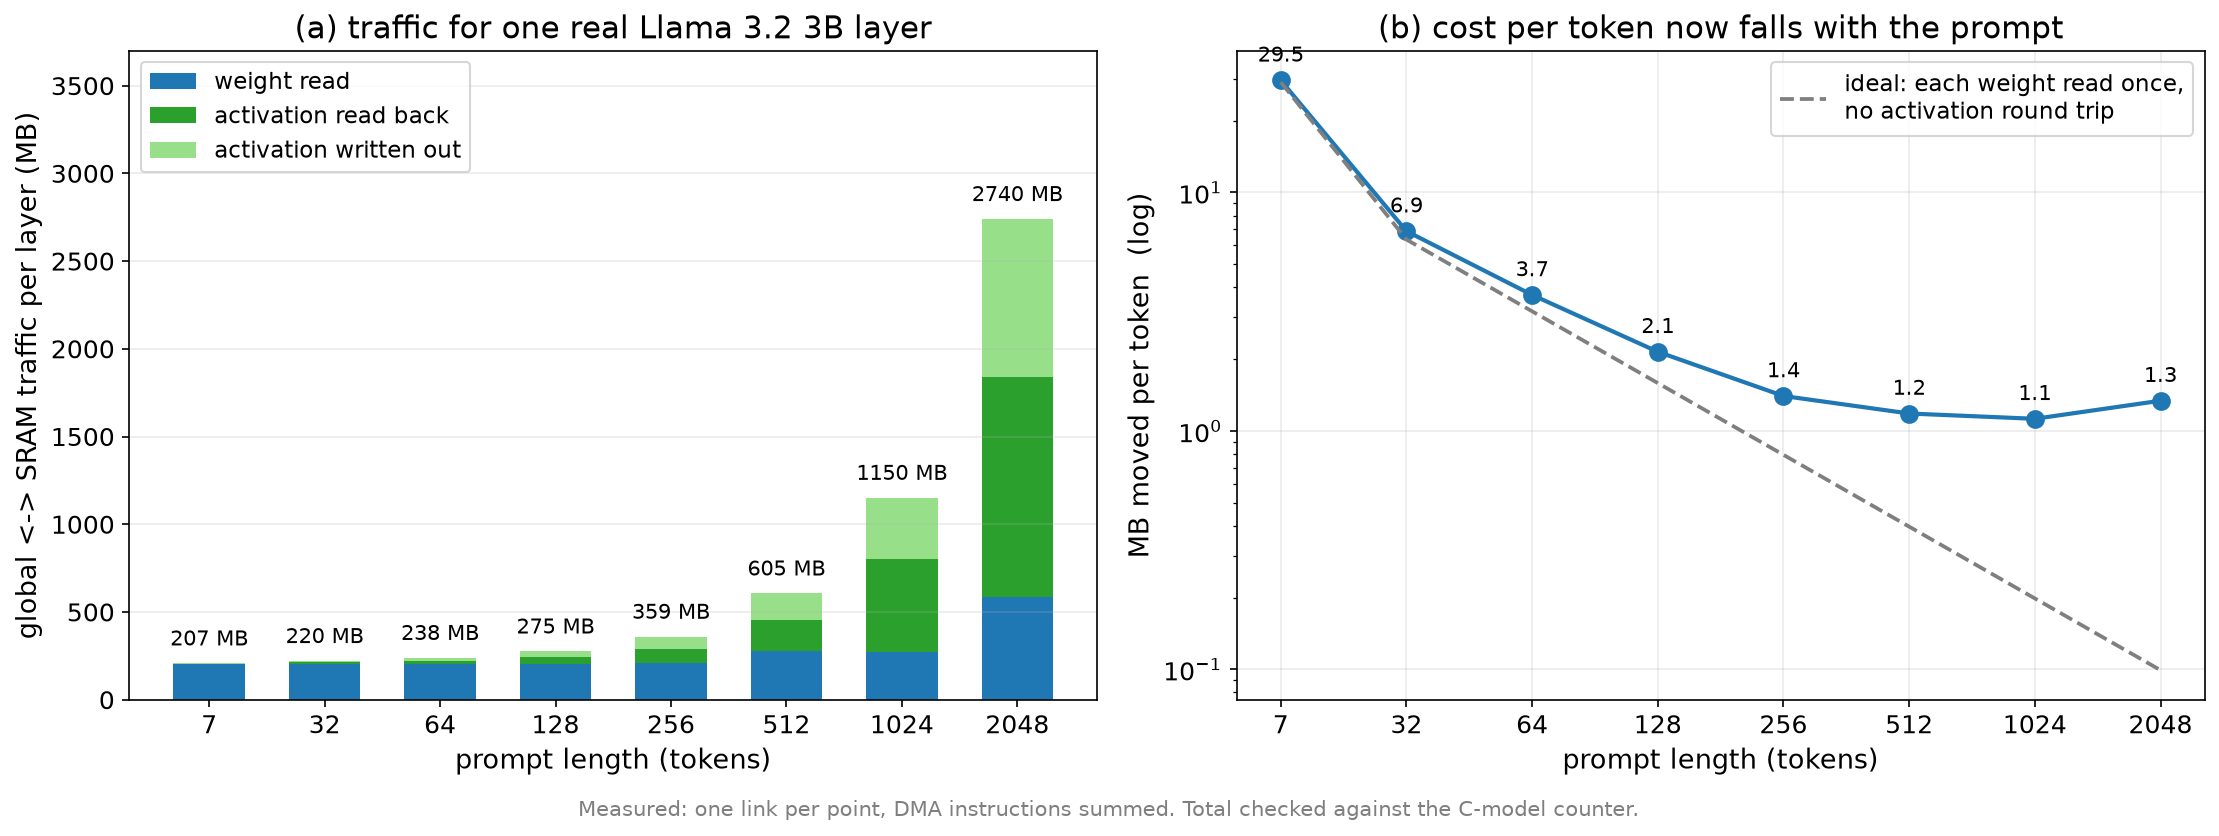
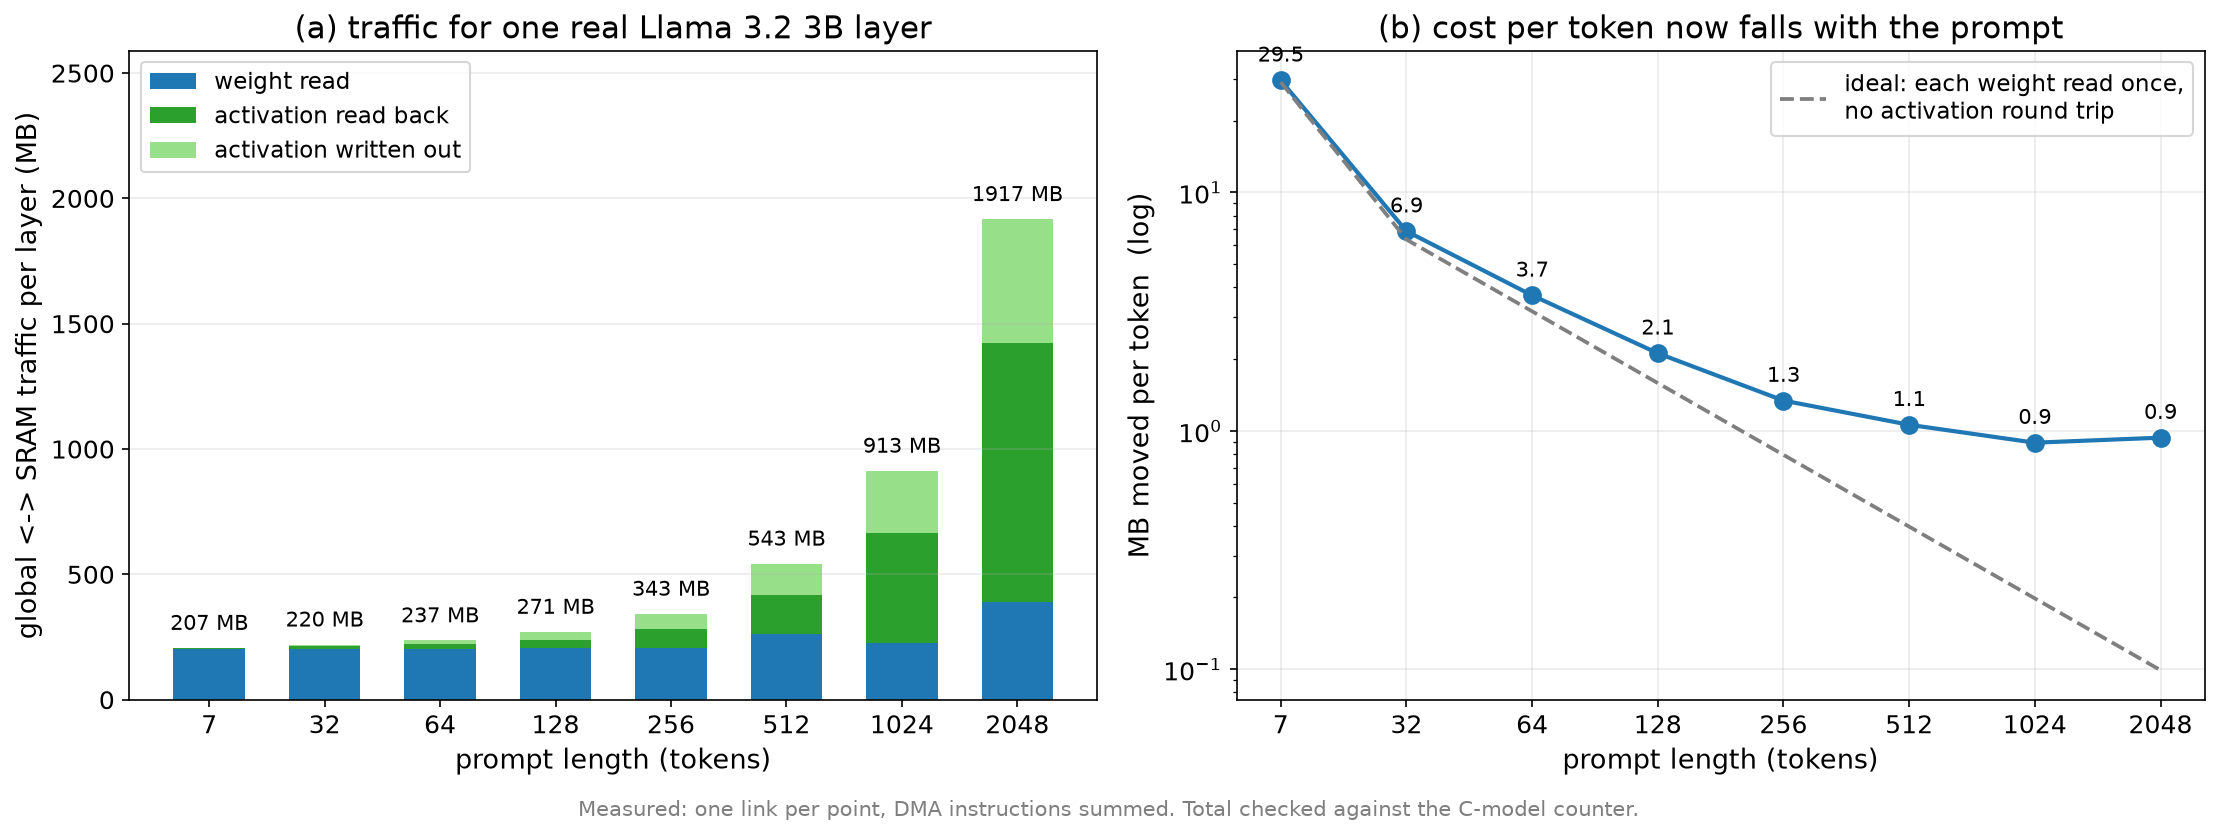
report: bring both documents up to date with today's work
Four things landed today (decode golden, mask, attention blocking, the
residency measurement) and the reports were describing the state before
two of them.  This makes every number in both documents current, and
re-measures the ones that could have gone stale rather than editing them
by hand.

report_0901.md
  Section 0 and 14 carry the four full-depth gates re-run after the mask
  change: 15,285,445 / 21,540,004 / 13,664,874 / 16,021,170 words, tokens
  358 / 358 / 108 / 358, cosines 0.9999927 / 0.9999922 / 0.9997845 /
  0.9999927.  The cosines are unchanged to the last digit and the words
  fell by 8-16 per layer, which is what a mask read from one head's copy
  instead of twenty-four should do.  14 also records that these gates are
  the regression baseline for the attention work and are untouched by it,
  verified by stashing rather than assumed.

  15.4e said the remaining item was the scores tensor and that removing it
  needed an online softmax.  It is removed, and the claim about online
  softmax was wrong; the section now says why (both axes vs one, 200 KB vs
  8 MiB).  17 gets the attention item closed and the inter-op one marked
  deferred with its measured number.

report_0908.md
  New 4.5 answers a question this design had not addressed in writing: is
  this heuristic or search?  Three layers, and only one of them is
  heuristic.  Choosing the resident operand is exact -- one accumulator
  collapses the space to three closed-form candidates, so comparing them
[…]

diff --git a/report/figs/0901/plot_traffic.py b/report/figs/0901/plot_traffic.py
@@ -3,16 +3,20 @@
 Reads report/figs/0901/traffic.json, written by d_compiler/analyze_traffic.py
 (one link per point; traffic is summed from the DMA instructions in the linked
 program, and the total was checked against the C-model's own counter -- both
-say 1,619,976,421 cells for the 28-layer program).
+say 1,619,927,729 cells for the 28-layer program).
 
 The point of these two figures is that every gate we run is seq=7, and at that
 one point the compiler looks optimal: weights are read exactly once and
-activation round trips are 1% of traffic.  Neither stays true as the prompt
-grows.  Two pieces of work have landed since the first version of these
-figures: striping the elementwise and normalisation kernels, which caps SRAM
-at ~6.1 MiB (it used to grow past 8 and stop linking at 256), and choosing
-which matmul operand stays resident, which is what pulled weight re-reads back
-towards one.
+activation round trips are 1% of traffic.  Neither stayed true as the prompt
+grew.  Four pieces of work have landed since the first version of these
+figures: striping the elementwise and normalisation kernels (SRAM used to grow
+past 8 MiB and stop linking at seq 256), choosing which matmul operand stays
+resident (weight re-reads back towards one), fusing the attention score chain,
+and blocking the whole attention over query rows so the score matrix never
+reaches global memory at all.  Cost per token is now under 1 MB.
+
+"weight" here means every function parameter, the mask included, which is why
+the blue bar drops at 2048 when the mask stopped being materialized per head.
 
 Colours: categorical blue/green for the two traffic kinds that behave
 differently, red reserved for the capacity violation, grey for recessive

diff --git a/report/report_0901.md b/report/report_0901.md
@@ -60,15 +60,16 @@ host가 실제로 실행하는 `transform_params`, 그리고 같은 IR을 CPU로
 
 | 모델 | 결과 | 규모 |
 |---|---|---|
-| Llama 3.2 3B (28층) | **HF golden token 358 일치 + HF logits cosine 0.9999927** (기존 golden 0.9999881 상회) | A1 적용 **15.3M word** (전 31.2M, −51.0%) · 6.1 GiB image |
-| Qwen3-4B (36층) | **HF golden token 358 일치 + HF logits cosine 0.9999922** | A1 적용 **21.5M word** (전 42.9M, −49.8%) · 7.7 GiB image |
-| Gemma 4 E2B (35층) | **HF golden token 108 일치 + HF logits cosine 0.9997845** | 13.7M word · 4.3 GiB image · 실행 247s |
-| HF 추적 Llama (28층) | **HF golden token 358 일치 + cosine 0.9999927** — HF 모델 자체가 입력 (§2.5) | 16.0M word |
+| Llama 3.2 3B (28층) | **HF golden token 358 일치 + HF logits cosine 0.9999927** (기존 golden 0.9999881 상회) | **15,285,445 word** · 6.1 GiB image |
+| Qwen3-4B (36층) | **HF golden token 358 일치 + HF logits cosine 0.9999922** | **21,540,004 word** · 7.7 GiB image |
+| Gemma 4 E2B (35층) | **HF golden token 108 일치 + HF logits cosine 0.9997845** | **13,664,874 word** · 4.3 GiB image |
+| HF 추적 Llama (28층) | **HF golden token 358 일치 + cosine 0.9999927** — HF 모델 자체가 입력 (§2.5) | **16,021,170 word** |
 | W8A16 양자화 | 타일 규모에서 **numpy mirror와 bit-exact**, tiny 모델 cosine 0.999998. 실차원 양자화 matmul cosine 0.999964 (§16.3) | — |
 | W8A8 (activation 양자화) | **HF golden token 358 일치 + cosine 0.9974269** (28층, §15.4f) | 9.97M word |
 | decode (생성) | **28층 golden `[358, 2846, 4560]` 일치 (2026-09-08)**. tiny에서 NPU == llvm == float32 전체 재계산 (§18.3) | 모델당 프로그램 2개 |
 | 컴파일 시간 | 28층 링크 **8,147s → 127.0s (64.1배)**, word 스트림 불변 (§7.1, §11.1) | codegen이 C++ (§7.1) |
 | 긴 프롬프트 | **seq 2048까지 링크·실행** (1층 cosine 0.999994), **28층 × seq 512 cosine 0.999882** (§15.4b~f) | 이전엔 seq 256에서 컴파일 실패 |
+| 어텐션 | **점수 행렬이 SRAM을 벗어나지 않는다** — 어텐션 전체를 한 커널로 융합해 질의 행블록으로 블로킹 (`report_0908.md` §5.5) | seq 2048에서 어텐션 1,057 → **234.9 MB**, 전체 −30.0% |
 
 ---
 
@@ -599,6 +600,25 @@ Llama 실행의 카운터는 `dma_cells_loaded` 1,619,976,421 · `matrix_ops` 78
 `gload` 786,312 · `gstore` 23,341이다. 이 중 `dma_cells_loaded`는 §15.4의
 정적 트래픽 분석이 센 값과 **정확히 일치**하며, 그 분석의 검증 기준이다.
 
+**마스크를 헤드마다 복사하지 않게 한 뒤 재실행 (2026-09-08)** —
+`report_0908.md` §5.5 참조. 마스크가 `[H,S,S]`에서 `[1,S,S]`가 되어 커널이
+같은 값을 더 적은 전송으로 읽는다:
+
+| 모델 | word 수 | Δ | 층당 | token | cosine |
+|---|---|---|---|---|---|
+| Llama 28층 | 15,285,445 | −448 | −16 | **358 ✓** | **0.9999927** |
+| Qwen3 36층 | 21,540,004 | −576 | −16 | **358 ✓** | **0.9999922** |
+| Gemma 35층 | 13,664,874 | −280 | −8 | **108 ✓** | **0.9997845** |
+| HF 추적 Llama | 16,021,170 | −448 | −16 | **358 ✓** | **0.9999927** |
+
+**cosine 네 개가 자릿수까지 그대로다.** 값이 같고 전송만 줄었으므로 그래야
+한다. Llama의 `dma_cells_loaded`도 1,619,976,421 → 1,619,927,729로 −48,692
+cell(−0.003%) 움직였다.
+
+이 게이트들이 어텐션 블로킹(§`report_0908.md` §5.5)의 **회귀 판정 기준**이기도
+하다. seq=7은 타일 정렬이 아니라 블로킹 pass가 닿지 않으므로, 위 네 줄은
+어텐션 변경 전후로 **완전히 동일**하다 — 가정이 아니라 stash 대조로 확인했다.
+
 Gemma 이야기는 §12의 수순이 실제로 작동한 사례다. 첫 전체 실행이 token
 236761로 실패했을 때: (1) 같은 lowered IR을 llvm으로 돌려 token 108 확인 →
 frontend 무죄. (2) 깊이 이분 — 수정된 HEAD에서 2/5/16층이 HF hidden state와
@@ -679,7 +699,8 @@ SRAM은 아예 안 들어가게 된다.**
 **측정 방법**: 링크된 프로그램의 DMA 명령이 옮기는 바이트를 직접 합산한다
 (`d_compiler/analyze_traffic.py`). 실행이 아니라 링크 한 번이면 되고, 근사가
 아니다 — 28층 프로그램에 대해 이 방식이 센 값과 C-model 자신의 카운터가
-**둘 다 1,619,976,421 cell로 일치**한다. weight 총량도 파라미터 바이트를
+**둘 다 1,619,927,729 cell로 일치**한다(2026-09-08 재확인; 마스크 변경 전에는
+둘 다 1,619,976,421이었고 **함께** 움직였다). weight 총량도 파라미터 바이트를
 손으로 센 값(6,425,843,712 B)과 8 KiB 이내로 맞는다.
 
 실 Llama 3.2 3B **한 층**, 프롬프트 길이별:
@@ -938,10 +959,17 @@ seq 2048에서 트래픽을 **커널 단위로** 분해하니(텐서 단위는 s
 (Llama 0.9999927 / Qwen3 0.9999922 / Gemma 0.9997845 / HF 0.9999927),
 `test_long_prompt`도 seq 1024까지 불변.
 
-**남은 것은 `scores` 텐서 자체다.** 융합으로 패스 수는 줄었지만 여전히
-materialize되어 seq 2048에서 201 MB를 읽고 쓴다. 그것을 없애려면 QK^T ·
-softmax · PV를 하나로 묶고 온라인 softmax로 블록 처리하는 FlashAttention식
-재작성이 필요하다 — §15.5의 Loop C.
+**남은 것은 `scores` 텐서 자체였다** — 융합으로 패스 수는 줄었지만 여전히
+materialize되어 seq 2048에서 201 MB를 읽고 썼다.
+
+→ **해결 (2026-09-08, `report_0908.md` §5.5).** QK^T · softmax · PV를 한
+패턴으로 묶고 **질의 행 블록**으로 블로킹했다. 그런데 여기 적었던
+"온라인 softmax가 필요하다"는 **틀렸다**: FlashAttention이 온라인 softmax를
+쓰는 이유는 점수 행렬의 **두 축을 다** 쪼개기 때문이고, 그건 GPU SM의 공유
+메모리가 ~200 KB이기 때문이다. **SRAM이 8 MiB인 우리는 행만 쪼개면 되고, 그러면
+한 블록이 그 행들의 전체 행을 담으므로 softmax가 정확하다** — running max도,
+누산기 재조정도 없다. 실측 seq 2048에서 어텐션 1,057 → **234.9 MB**, 전체
+2,739.5 → **1,917.5 MB (−30.0%)**.
 
 ### 15.4f 전체 깊이 × 긴 프롬프트, 그리고 W8A8 (2026-09-08)
 
@@ -1092,8 +1120,16 @@ quantized [7,3072]×[3072,3072]  → 링크 성공, C-model 실행
    N=128,256 → 62,720). 인코더가 이제 예외를 던지고, `npu_w8a8`은 결과를
    열 타일마다 배출한다. 28층 게이트 **token 358 = golden, cosine 0.9974269**
    로 처음 통과했다.
+3c. ~~어텐션 `scores` 텐서~~ → **해결 (`report_0908.md` §5.5, 2026-09-08)**.
+   어텐션 전체를 한 커널로 융합하고 질의 행 블록으로 블로킹해 점수 행렬이
+   SRAM을 벗어나지 않게 했다. seq 2048에서 어텐션 **1,057 → 234.9 MB (4.5배)**,
+   전체 **−30.0%**. 게이트 4종 cosine 불변(seq=7은 타일 정렬이 아니라 이 pass가
+   닿지 않는다).
+
 4. **A2 잔여: 커널 경계를 넘는 DMA 병합** — 층 출력 store 직후 다음 커널이
-   같은 텐서를 다시 load하는 왕복이 남아 있다.
+   같은 텐서를 다시 load하는 왕복이 남아 있다. **커널 간 상주로 없애는 안은
+   재어 보고 보류했다** — 회수 가능량이 seq 512에서 +2.9%, seq 2048에서 음수다
+   (`report_0908.md` §6.1).
 5. **C2: 상수 index take → slice** — prefill lm_head가 전체 seq에 대해
    계산됨(마지막 행만 필요) → **×seq 낭비**(seq=7이면 7배). decode 경로는
    1행이라 이미 낭비가 없다.
